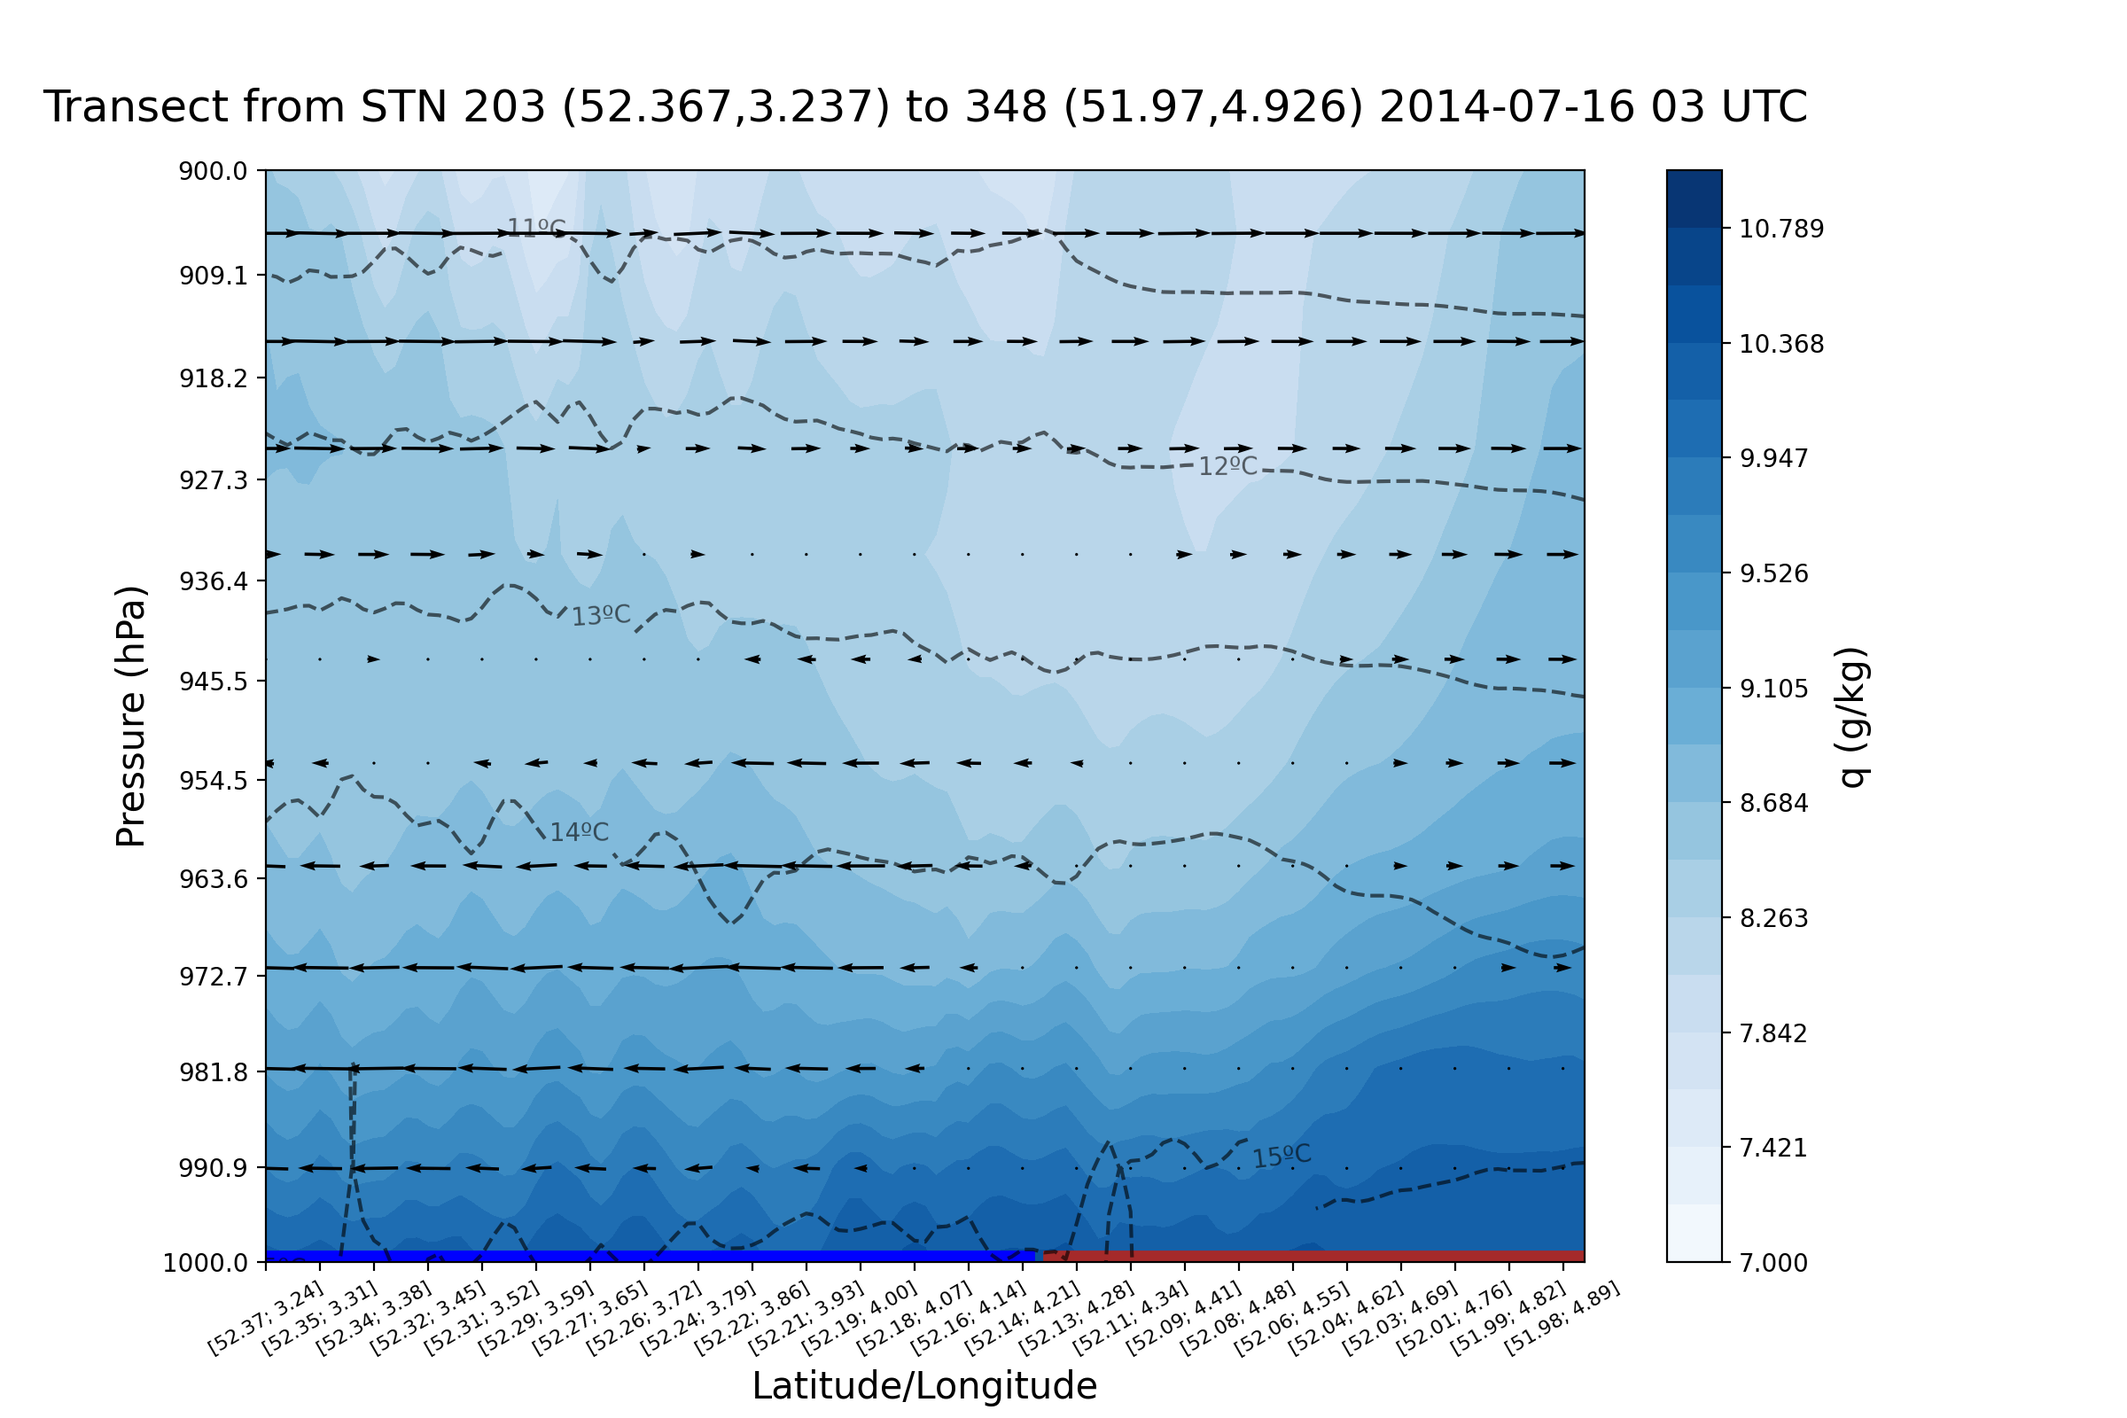
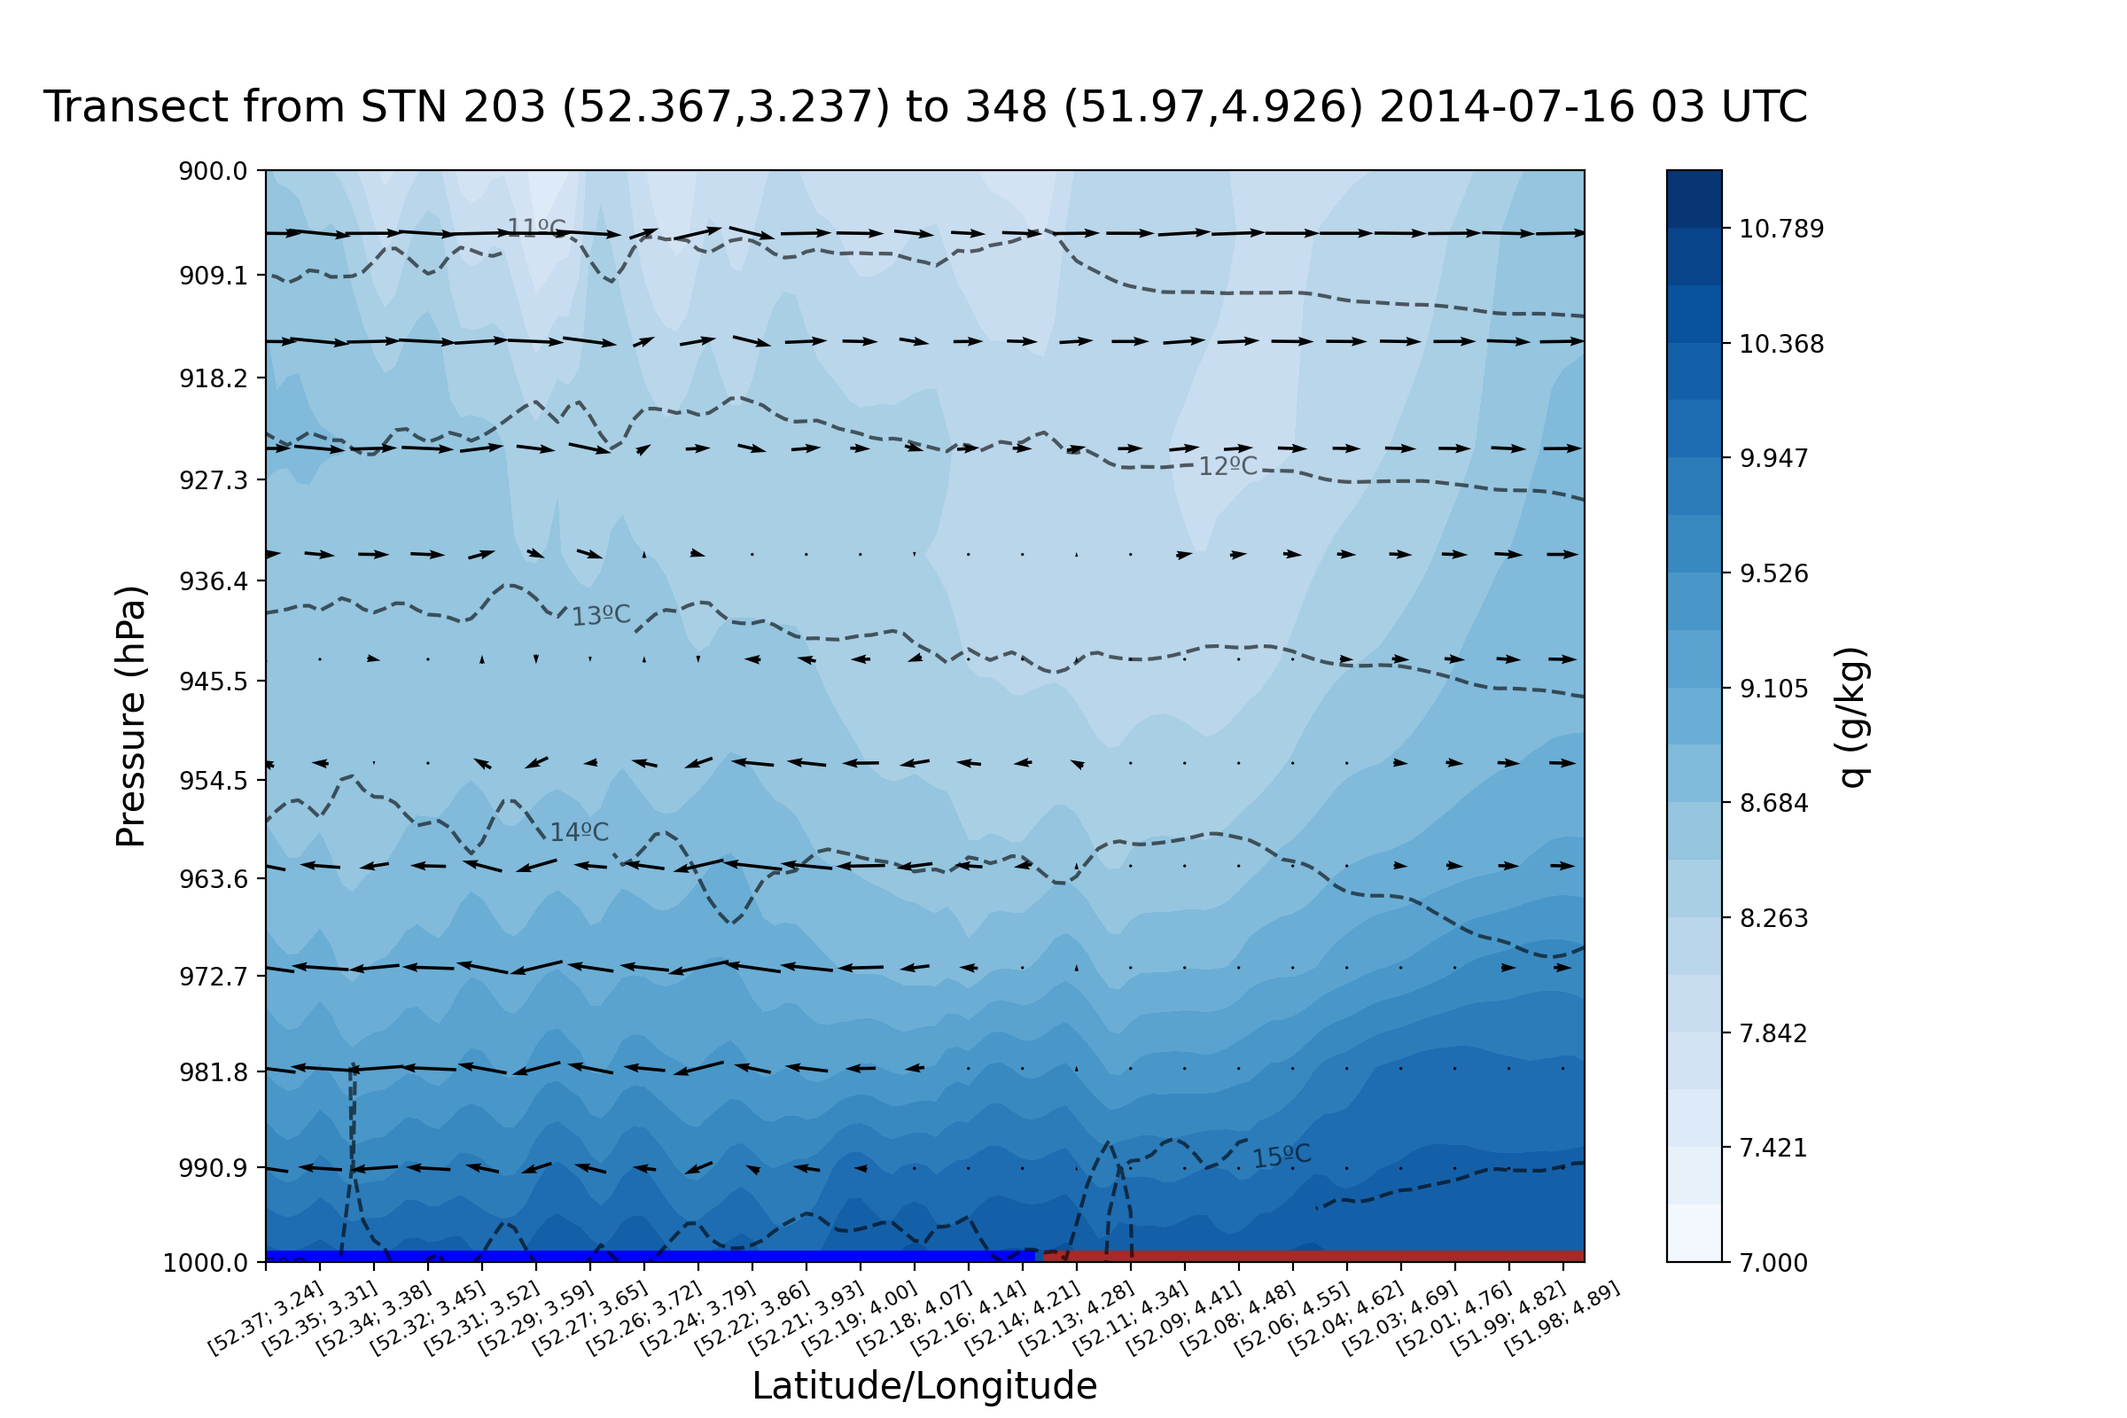
Actualización automática del proyecto y environment.yml

diff --git a/scripts/plots/plot_ts_CABAUW_vs_WRF.py b/scripts/plots/plot_ts_CABAUW_vs_WRF.py
@@ -14,6 +14,7 @@ from datetime import timezone
 import netCDF4 as nc
 import cftime
 from datetime import datetime
+from wrf import getvar, ll_to_xy, to_np
 
 # Obtener la ruta actual del proyecto (ruta raíz SB_SCALING-Netherlands)
 ruta_actual = Path.cwd()  # Esto te lleva a SB_SCALING-Netherlands
@@ -27,29 +28,42 @@ from processing_data import generate_KNMI_df_STNvsDATETIME, generate_WRF_df_STNv
 var_name = 'Q'
 
 # PARAMETERS KNMI
-var_units = 'ºC'
+var_name_CABAUW = 'TH03'
+var_units = r'm^3/m^3'
 date_of_interest = '2014-07-16'
 
 # PARAMETERS WRF
-var_units = 'ºC'
+var_name_WRF = 'SMOIS' #'SH2O'
+var_units = 'm3/m3'
 sim_name = 'PrelimSim_I'
 domain_number = '2'
 
 cbar_lims_both=(11, 25) #serán iguales para los dos, KNMI y WRF
 
-sea_station_code = 320
-land_station_code = 260
+# sea_station_code = 320
+# land_station_code = 215
 
 path_wrf_files = Path.cwd().joinpath(f'data/Models/WRF/{sim_name}')
 
 STR_CABAUW = 348
 ds = nc.Dataset('/home/poc/Documentos/Projects/SB_SCALING-Netherlands/data/Models/WRF/PrelimSim_I/wrfout_d02_2014-07-16_00.nc')
+lu_index = getvar(ds, "LU_INDEX")
+# Convertir las coordenadas geográficas al índice de la malla
+x_y = ll_to_xy(ds, 51.971, 4.926)
 
-# Listar todas las variables disponibles
-print(ds.variables.keys())
+# Extraer el índice X y Y
+x_idx, y_idx = to_np(x_y)
+# Extraer el uso de suelo correspondiente al punto (x_idx, y_idx)
+uso_de_suelo = lu_index[y_idx, x_idx]
+print("El uso de suelo en el punto mas cercano a Cabauw es:", uso_de_suelo)
 
-df_resultado_WRF_land, _ = generate_WRF_df_STNvsDATETIME(domain_number, sim_name, date_of_interest, 'SMOIS', STN = STR_CABAUW)
+df_resultado_WRF_land, _ = generate_WRF_df_STNvsDATETIME(domain_number, sim_name, date_of_interest, var_name_WRF, STN = STR_CABAUW)
+df_resultado_WRF_land_SH, _ = generate_WRF_df_STNvsDATETIME(domain_number, sim_name, date_of_interest, 'HFX', STN = STR_CABAUW)
+df_resultado_WRF_land_LE, _ = generate_WRF_df_STNvsDATETIME(domain_number, sim_name, date_of_interest, 'LH', STN = STR_CABAUW)
+df_resultado_WRF_land_BR = df_resultado_WRF_land_SH/df_resultado_WRF_land_LE
+df_resultado_WRF_land_EF = df_resultado_WRF_land_LE/(df_resultado_WRF_land_LE + df_resultado_WRF_land_SH)
 
+### IMPORTO LOS DATOS DE CABAUW:
 dataset = nc.Dataset('/home/poc/Documentos/Projects/SB_SCALING-Netherlands/data/Obs/Cabauw/cesar_soil_water_lb1_t10_v1.1_201407.nc', mode='r')
 # Extrae los tiempos
 time = dataset.variables['time'][:]
@@ -60,7 +74,7 @@ time_readable = nc.num2date(time, time_units)
 python_dates = [datetime(d.year, d.month, d.day, d.hour, d.minute, d.second, d.microsecond) for d in time_readable]
 
 # Extrae la humedad del suelo a 0.03 m
-TH03 = dataset.variables['TH03'][:]  # Soil water content at 0.03 m depth
+TH03 = dataset.variables[var_name_CABAUW][:]  # Soil water content at 0.03 m depth
 
 # Cierra el dataset
 dataset.close()
@@ -68,15 +82,37 @@ dataset.close()
 
 df = pd.DataFrame(data={"TH03": TH03}, index=python_dates)
 # Muestra los tiempos y los datos de humedad del suelo
-print("Tiempos:", time_readable)
-print("Humedad del suelo a 0.03 m (TH03) [m3/m3]:", TH03)
-breakpoint()
+
+
+### Y ahora los flujos:
+dataset_surf_fluxes = nc.Dataset('/home/poc/Documentos/Projects/SB_SCALING-Netherlands/data/Obs/Cabauw/cesar_surface_flux_lc1_t10_v1.0_201407.nc', mode='r')
+# Extrae los tiempos
+time_surf_fluxes = dataset.variables['time'][:]
+# Convierte los tiempos a un formato legible (si están en epoch time)
+time_units_surf_fluxes = dataset.variables['time'].units
+time_readable_surf_fluxes = nc.num2date(time, time_units)
+# Convertir a datetime de Python
+python_dates_surf_fluxes = [datetime(d.year, d.month, d.day, d.hour, d.minute, d.second, d.microsecond) for d in time_readable_surf_fluxes]
+
+# Extrae la humedad del suelo a 0.03 m
+H_data = dataset_surf_fluxes.variables['H'][:]  # Soil water content at 0.03 m depth
+LE_data = dataset_surf_fluxes.variables['LE'][:]  # Soil water content at 0.03 m depth
+BowenR_data = H_data/LE_data
+EF = LE_data/(LE_data + H_data)
+
+df_H = pd.DataFrame(data={"H": H_data}, index=python_dates_surf_fluxes)
+df_LE = pd.DataFrame(data={"LE": LE_data}, index=python_dates_surf_fluxes)
+BowenR_data = pd.DataFrame(data={"Bowen ratio": BowenR_data}, index=python_dates_surf_fluxes)
+EF_data = pd.DataFrame(data={"Evaporative fraction": EF}, index=python_dates_surf_fluxes)
+# Cierra el dataset
+dataset_surf_fluxes.close()
+# breakpoint()
 
 ############################
 # JAY QUE HACER COINCIDIR LAS FECHAS DE LOS DATOS
 ############################
 
-
+############
 # Crear una figura y eje
 plt.figure(figsize=(10, 6))
 
@@ -86,14 +122,14 @@ plt.figure(figsize=(10, 6))
 # _rellenado_land_station.index, df_rellenado_land_station, color = 'red', label = 'Filled missing data')
 
 
-plt.plot(df_resultado_WRF_land.index, df_resultado_WRF_land, label=f'SMOIS STN {sea_station_code} (KNMI)', color = 'blue')
-plt.plot(df.index, df, label=f'TH03 STN {land_station_code} (KNMI)', color = 'green')
+plt.plot(df_resultado_WRF_land.index, df_resultado_WRF_land, label=f'SH20 STN {STR_CABAUW} (WRF nearest)', color = 'blue')
+plt.plot(df.loc['2014-07-16'].index, df.loc['2014-07-16'], label=f'TH03 Cabauw', color = 'green')
 
 # Añadimos etiquetas y título
 plt.xlabel('Hour (UTC)')
 
 plt.ylabel(f'({var_units})')
-plt.title(f'ts for STN {sea_station_code} y STN {land_station_code}', fontsize = 20)
+# plt.title(f'ts for STN {STR_CABAUW} KNMI vs Cabauw Obs', fontsize = 20)
 plt.legend(loc='upper left', fontsize = 12)
 
 # Rotamos las etiquetas del eje x para mejor legibilidad
@@ -115,4 +151,49 @@ ax.grid(True)
 
 # Mostramos la gráfica
 plt.tight_layout()
-plt.savefig('figs/ts/prueba.png')
+plt.savefig('figs/ts/Obs-vs-Model/SoilMoisture_WRF-vs-Cabauw_2014-07-16.png')
+###############
+
+
+###############
+### FIGURA PARA LOS FLUJOS:
+# Crear una figura y eje
+plt.figure(figsize=(10, 6))
+
+# Graficamos ambas columnas
+# plt.plot(df_rellenado_sea_station.index, df_rellenado_sea_station, color = 'red')
+# plt.plot(df
+# _rellenado_land_station.index, df_rellenado_land_station, color = 'red', label = 'Filled missing data')
+
+
+plt.plot(df_resultado_WRF_land_EF.index, df_resultado_WRF_land_EF, label=f'STN {STR_CABAUW} (WRF nearest)', color = 'blue')
+plt.plot(EF_data.loc['2014-07-16'].index, EF_data.loc['2014-07-16'], label=f'Cabauw', color = 'green')
+
+# Añadimos etiquetas y título
+plt.xlabel('Hour (UTC)')
+
+# plt.ylabel(f'()')
+plt.title(f'Evaporative fraction for STN {STR_CABAUW} (WRF closest) vs Cabauw Obs', fontsize = 20)
+plt.legend(loc='upper left', fontsize = 12)
+
+# Rotamos las etiquetas del eje x para mejor legibilidad
+# Formatear el eje de tiempo como "DDMon HHh"
+ax = plt.gca()  # Obtener el eje actual
+time_fmt = mdates.DateFormatter('%H')
+
+# Set the locator and formatter for the x-axis ticks
+# Major ticks por hora
+
+# # Minor ticks cada media hora
+ax.xaxis.set_minor_locator(mdates.MinuteLocator(interval=30))  # Cada 30 minutos
+ax.xaxis.set_major_formatter(time_fmt)
+
+# Ajuste automático del formato de fecha en el eje x
+ax.grid(True)
+
+
+
+# Mostramos la gráfica
+plt.tight_layout()
+plt.savefig('figs/ts/Obs-vs-Model/EF_WRF-vs-Cabauw_2014-07-16.png')
+###############

diff --git a/scripts/plots/plot_wrfout_data.py b/scripts/plots/plot_wrfout_data.py
@@ -21,7 +21,7 @@ sys.path.append(str(ruta_actual / 'scripts' / 'import'))
 # Importar las funciones desde 'import_ECMWF_IFS_data.py'
 from import_wrfout_data import process_wrf_file
 
-def plot_wrf_variable(variable, lats, lons, fig, subplot_idx, cbar_lims):
+def plot_wrf_variable(variable, lats, lons, fig, subplot_idx, cbar_lims, cmap = 'Reds'):
     """
     Genera un gráfico de una variable WRF y lo añade a un subplot específico en la figura.
     
@@ -30,6 +30,7 @@ def plot_wrf_variable(variable, lats, lons, fig, subplot_idx, cbar_lims):
     - fig: La figura de Matplotlib donde se añadirá el subplot.
     - subplot_idx: El índice del subplot (para posicionar dinámicamente).
     - cbar_lims: tupla que contenga los limites superior e inferior de los valores del colorbar
+    - cmap: string representing the colormap
     """
     
     # Añadimos un nuevo subplot a la figura en la posición indicada (subplot_idx)
@@ -37,7 +38,7 @@ def plot_wrf_variable(variable, lats, lons, fig, subplot_idx, cbar_lims):
     
     
     # Dibujamos la variable como un mapa de contornos en el eje proporcionado
-    contour = ax.contourf(to_np(lons), to_np(lats), to_np(variable), 10, cmap='Reds', transform=ccrs.PlateCarree(), extend='both',  levels = np.linspace(np.round(cbar_lims[0],0), np.round(cbar_lims[1],0), 20))#, vmin=cbar_lims[0], vmax=cbar_lims[1])
+    contour = ax.contourf(to_np(lons), to_np(lats), to_np(variable), 10, cmap=cmap, transform=ccrs.PlateCarree(), extend='both',  levels = np.linspace(np.round(cbar_lims[0],0), np.round(cbar_lims[1],0), 20))#, vmin=cbar_lims[0], vmax=cbar_lims[1])
     
     # Añadimos las características geográficas
     ax.coastlines()
@@ -73,7 +74,7 @@ def calculate_wind_speed_direction(u, v):
     return ws, wd
 
 
-def plot_wind(variable_u, variable_v, lats, lons, fig, subplot_idx, cbar_lims):
+def plot_wind(variable_u, variable_v, lats, lons, fig, subplot_idx, cbar_lims, cmap = 'Purples'):
     """
     Genera un gráfico de la velocidad y dirección del viento.
     
@@ -96,7 +97,7 @@ def plot_wind(variable_u, variable_v, lats, lons, fig, subplot_idx, cbar_lims):
     ws, wd = calculate_wind_speed_direction(u_np, v_np)
     
     # Dibujar la velocidad del viento como contorno
-    contour = ax.contourf(to_np(lons), to_np(lats), ws, 10, cmap='Purples', transform=ccrs.PlateCarree(),extend='both', levels = np.linspace(np.round(cbar_lims[0],0), np.round(cbar_lims[1],0), 20))#, vmin=cbar_lims[0], vmax=cbar_lims[1])
+    contour = ax.contourf(to_np(lons), to_np(lats), ws, 10, cmap=cmap, transform=ccrs.PlateCarree(),extend='both', levels = np.linspace(np.round(cbar_lims[0],0), np.round(cbar_lims[1],0), 20))#, vmin=cbar_lims[0], vmax=cbar_lims[1])
     
     # Añadir características geográficas
     ax.coastlines()
@@ -174,14 +175,15 @@ if __name__ == "__main__":
     for file_name in sorted(filename for filename in os.listdir(file_path) if filename.startswith("wrfout_d02_2014-07-16")):
         # Llamamos a la función para procesar el archivo WRF
         
-        variable, lats, lons, times = process_wrf_file(f'{file_path}/{file_name}', var_name, time_idx=None)
-
+        temperature, lats, lons, times = process_wrf_file(f'{file_path}/{file_name}', 'TSK', time_idx=None)
+        temperature_celsius = temperature-273
+        temperature_celsius.attrs['units'] = 'ºC'
         # Crear una figura con varios subplots
-        fig = plt.figure(figsize=(15,17))
+        fig = plt.figure(figsize=(17,9))
 
         # Plotear la variable de temperatura
 
-        plot_wrf_variable(variable-273, lats, lons, fig, subplot_idx=311, cbar_lims=(283-273, 300-273))
+        plot_wrf_variable(temperature_celsius, lats, lons, fig, subplot_idx=221, cbar_lims=(283-273, 313-273))
         
 
 
@@ -190,11 +192,24 @@ if __name__ == "__main__":
         v10, _, _, _ = process_wrf_file(f'{file_path}/{file_name}', "V10")
 
         # Dibujar el gráfico de viento
-        plot_wind(u10, v10, lats, lons, fig, subplot_idx=312, cbar_lims=(0, 8))  # 1 fila, 2 columnas, posición 2
+        plot_wind(u10, v10, lats, lons, fig, subplot_idx=222, cbar_lims=(0, 8))  # 1 fila, 2 columnas, posición 2
 
         variable2, lats, lons, times = process_wrf_file(f'{file_path}/{file_name}', 'PBLH', time_idx=None)
-        plot_wrf_variable(variable2, lats, lons, fig, subplot_idx=313, cbar_lims=(0, 1800))
+        plot_wrf_variable(variable2, lats, lons, fig, subplot_idx=223, cbar_lims=(0, 1800), cmap = 'RdPu')
 
+        variable_T2, lats, lons, times = process_wrf_file(f'{file_path}/{file_name}', 'T2', time_idx=None)
+        variable_PSFC, _, _, _ = process_wrf_file(f'{file_path}/{file_name}', 'PSFC', time_idx=None)
+        variable_td2, _, _, _ = process_wrf_file(f'{file_path}/{file_name}', 'td2', time_idx=None)
+
+        e_vapor = 6.112* np.exp(17.67*(variable_td2)/((variable_td2)+243.5))
+
+        hum_esp = 0.622*(e_vapor)/((variable_PSFC/100)-(0.378*e_vapor))*1000
+
+        hum_esp.name = "Specific Humidity"
+        hum_esp.attrs['units'] = 'g/kg'
+        # breakpoint()
+
+        plot_wrf_variable(hum_esp, lats, lons, fig, subplot_idx=224, cbar_lims=(7, 13), cmap = 'Greens')
 
     #     # Mostrar la figura completa
 
@@ -209,15 +224,15 @@ if __name__ == "__main__":
         # plt.tight_layout()
         plt.tight_layout()
         # Guardamos la figura en un archivo (si es necesario)
-        fig.savefig(Path.cwd() / 'figs' / 'maps' / 'T-wind_subplot' / '2014-07-16'/ f'T-wind_subplot_{file_name[11:-3]}.png', bbox_inches='tight')
+        fig.savefig(Path.cwd() / 'figs' / 'maps' / '2014-07-16'/ 'WRF' / f'AllVars_subplot_{file_name[11:-3]}.png', bbox_inches='tight')
         plt.close()
         #CREAR UN GIF DE TODAS LAS IMAGENES GENERADAS
         # Abrimos las imágenes y las convertimos a formato de PIL
         
-    path_to_figs = Path.cwd().joinpath('figs/maps/T-wind_subplot/2014-07-16')
+    path_to_figs = Path.cwd().joinpath('figs/maps/2014-07-16/WRF/')
 
-    images = [Image.open(png) for png in sorted(list(path_to_figs.glob('T-wind_subplot_*.png')))]
+    images = [Image.open(png) for png in sorted(list(path_to_figs.glob('AllVars_subplot_*.png')))]
     breakpoint()
     # Guardamos las imágenes en formato GIF
-    images[0].save(f'{path_to_figs}/T-wind_subplot_{file_name[11:-6]}.gif', save_all=True, append_images=images[1:], optimize=False, duration=600, loop=0)
+    images[0].save(f'{path_to_figs}/AllVars_subplot_{file_name[11:-6]}.gif', save_all=True, append_images=images[1:], optimize=False, duration=1800, loop=0)
 

diff --git a/scripts/plots/plot_ts_KNMI_vs_WRF.py b/scripts/plots/plot_ts_KNMI_vs_WRF.py
@@ -22,7 +22,7 @@ from processing_data import generate_KNMI_df_STNvsDATETIME, generate_WRF_df_STNv
 
 
 
-var_name = 'Q'
+var_name = 'T'
 
 # PARAMETERS KNMI
 var_units = 'ºC'
@@ -139,10 +139,9 @@ plt.legend(loc='upper left', fontsize = 12)
 ax = plt.gca()  # Obtener el eje actual
 time_fmt = mdates.DateFormatter('%H')
 
-# Set the locator and formatter for the x-axis ticks
-# Major ticks por hora
+ax.xaxis.set_major_locator(mdates.HourLocator(interval=1))  # Cada 1 hora
 
-# # Minor ticks cada media hora
+# Minor ticks cada media hora
 ax.xaxis.set_minor_locator(mdates.MinuteLocator(interval=30))  # Cada 30 minutos
 ax.xaxis.set_major_formatter(time_fmt)
 
@@ -153,4 +152,5 @@ ax.grid(True)
 
 # Mostramos la gráfica
 plt.tight_layout()
+breakpoint()
 plt.savefig(f'{ruta_actual}/figs/ts/Obs-vs-Model/{var_name}_Land-vs-Sea_KNMI-vs-WRF.png')

diff --git a/scripts/plots/plot_wrf_transect.py b/scripts/plots/plot_wrf_transect.py
@@ -134,7 +134,7 @@ for filename in filenames:
     # Añadir quivers para las componentes U y V del viento
     # quiver_skip = (slice(None, None, 5), slice(None, None, 5))  # Esto ajusta la densidad de quivers (cada 5 puntos)
     quiver = ax.quiver(np.arange(coord_pairs.shape[0])[::plot_every], to_np(u_cross["vertical"]), 
-            u_cross_np_filtered, to_np(w_cross)[:, ::plot_every], pivot='mid', color='black', scale=50)
+            u_cross_np_filtered, to_np(w_cross)[:, ::plot_every]*5, pivot='mid', color='black', scale=50)
 
     # Definir el terreno (por ejemplo, donde sea mayor que un umbral considerarlo tierra)
     ocean_mask = to_np(terrain_transect) == 0  # Considerar océano cuando el terreno es 0

diff --git a/scripts/calculations/processing_data.py b/scripts/calculations/processing_data.py
@@ -335,6 +335,8 @@ def generate_WRF_df_STNvsDATETIME(domain_n, sim_name, fecha, var_name, STN = 'al
                     pre_valor_extraido = extract_point_data(f'{ruta}/wrfout_d0{domain_n}_{time_str.strftime("%Y-%m-%d_%H")}.nc', var_name, stn_lat, stn_lon, time_idx=None)
                     if 'soil_layers_stag' in pre_valor_extraido.dims:
                         post_valor_extraido = pre_valor_extraido.sel(soil_layers_stag=0).item()
+                    else: 
+                        post_valor_extraido = pre_valor_extraido
                     valor_extraido = (float(post_valor_extraido))
 
                     # Si la estación (columna) aún no existe, añadirla
